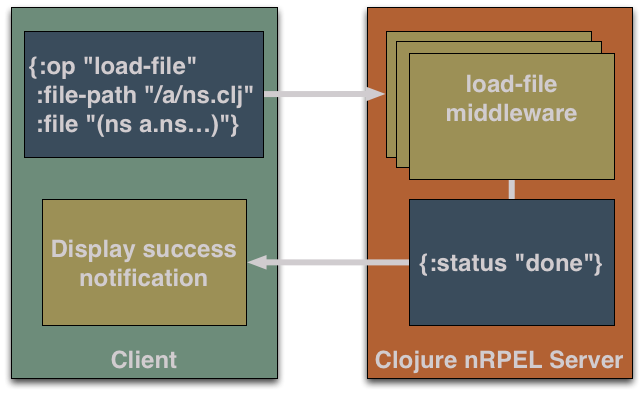
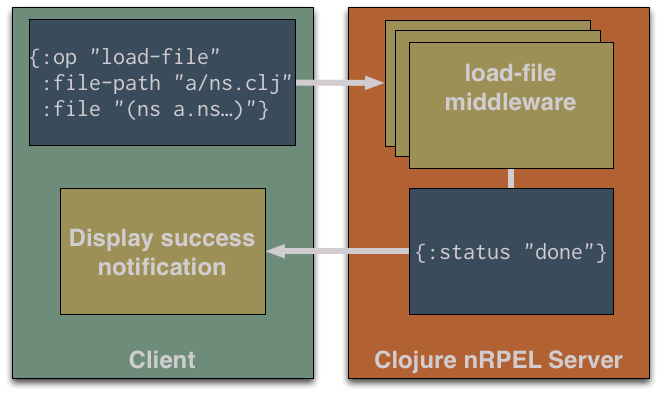
Use monospaced font for nrepl messages

diff --git a/index.html b/index.html
@@ -251,11 +251,11 @@ disassemble a frame's code.
 
           <section>
             <h2>Running nrepl.el ...</h2>
-            <p>Start an nREPL server and connect to it.</p>
+            <p>Start an nREPL server, possibly with <code>lein</code>.</p>
             <pre><code class="brush: bash">lein repl :headless</code></pre>
             <p>
-              This will announce the port it is running on, which you pass to
-              <code>nrepl</code>
+              Connect to the nREPL server. <code>lein</code> announces the port
+              the REPL is running on.
             </p>
             <pre><code class="brush: emacs">M-x nrepl localhost 41045</code></pre>
             <p></p>
@@ -397,18 +397,18 @@ disassemble a frame's code.
 
             <h3>Run</h3>
 
-            <p>Run repl server:</p>
+            <p>Run the ritz nREPL server:</p>
             <pre><code class="brush: bash">lein ritz-nrepl</code></pre>
 
-            <p>Connect to repl server</p>
-            <pre><code class="brush: emacs">M-x nrepl</code></pre>
+            <p>Connect to the repl server, specifying the port:</p>
+            <pre><code class="brush: emacs">M-x nrepl 4005</code></pre>
           </section>
         </section>
 
         <section>
           <section>
             <h2>Break on exception</h2>
-            <p>Examine stack traces before the stack unwinds.Needs to be turned on:</p>
+            <p>Examine stack traces before the stack unwinds.  Needs to be turned on:</p>
 
             <pre><code class="brush: emacs">M-x nrepl-ritz-break-on-exception</code></pre>
 
